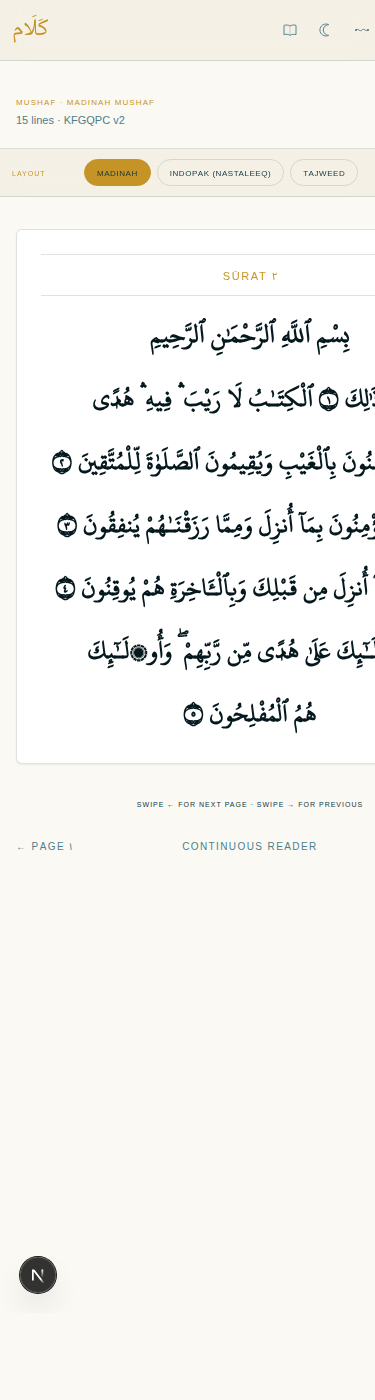
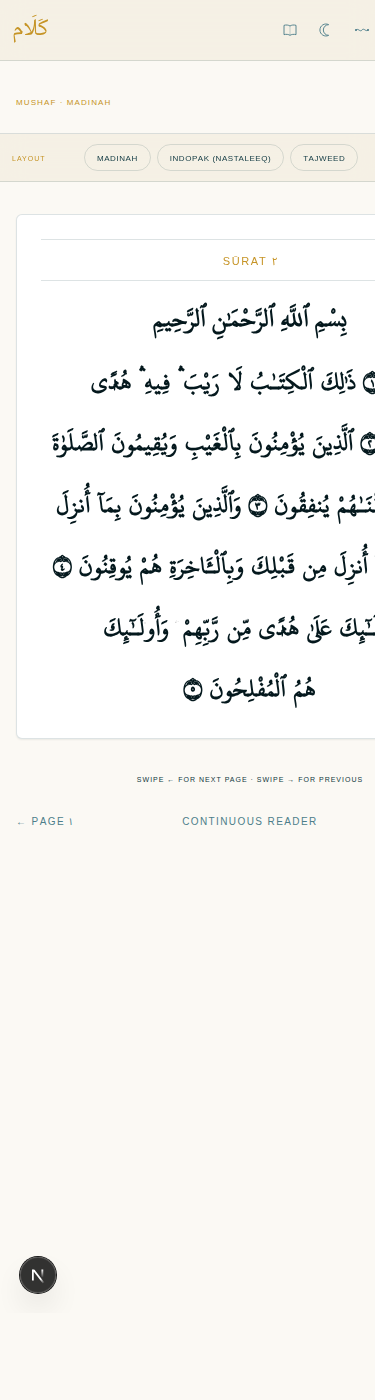
feat(web,backend): pretty mushaf URL slugs + word-tap restored + ayah-mushaf cleanup
URL slugs (user-facing):
- /mushaf/madinah/N        (was /mushaf/madani_15/N)
- /mushaf/indopak/N        (was /mushaf/kfgqpc_v1/N)
- /mushaf/tajweed/N        (was /mushaf/kfgqpc_v4/N)
- Old internal slugs still resolve (backward compat) via the
  URL_ALIAS_TO_INTERNAL map in qul-layouts.ts.
- /v1/layouts response now includes urlSlug per layout. Frontend chip
  links + JumpToPicker + page-nav use urlSlug.

Word-by-word selector restored on mushaf:
- Each word in MushafLines is now an inline <a class="mushaf-word">
  → /study/:s/:a#w<idx>. Plain inline (NOT inline-block / NOT bdi /
  NOT isolate) so it stays in the parent's RTL bidi context — no
  reordering — while remaining tappable. Subtle hover highlight.
- Tajweed coloring + silent-mark superscripts now layered INSIDE the
  word anchor instead of replacing it.

Silent-mark sizing fix:
- U+06DF / U+06D6–U+06D8 small-high marks were rendering as full-size
  rosette-like glyphs (UthmanicHafs draws them prominently). Shrank to
  0.32em with vertical-align 0.95em, switched font to Noto Naskh
  Arabic so the codepoint draws as a discreet superscript dot.

Single-ayah mushaf style:
- AyahMushafLines now slices each line's words to ONLY the target
  verse's words. A mushaf line that spans verse 2:2 + 2:3 used to
  render BOTH on the single-ayah view, mixing verses. Now only the
  requested verse's portion shows on each line.

IndoPak rosette fix:
- Verse-end span uses display:inline-block + unicode-bidi:isolate so
[…]

diff --git a/apps/web/src/components/MushafLines.tsx b/apps/web/src/components/MushafLines.tsx
@@ -432,6 +432,9 @@ function renderLineText(
       // rosette glyph renders even when the layout font (Nastaliq /
       // Naskh) has no rosette. Wrapped as a clickable anchor for jump-
       // to-verse on tap.
+      // Render the rosette in its own bidi-isolated inline-block so
+      // the Nastaliq parent font can't bleed into the UthmanicHafs
+      // override and the rosette stays a single unit in the line.
       out.push(
         <a
           key={`${w.wordId.toString()}-end`}
@@ -439,7 +442,11 @@ function renderLineText(
           title={`Ayah ${w.verseKey} — ends here`}
           aria-label={`End of ayah ${w.verseKey}`}
           className="ayah-end hover:text-leaf"
-          style={{ fontFamily: '"UthmanicHafs", "Amiri Quran", serif' }}
+          style={{
+            fontFamily: '"UthmanicHafs", "Amiri Quran", serif',
+            display: 'inline-block',
+            unicodeBidi: 'isolate',
+          }}
         >
           {ayahDigit(w.verseKey)}
         </a>,
@@ -448,6 +455,16 @@ function renderLineText(
       continue;
     }
 
+    // Wrap each word in a plain INLINE anchor (NOT inline-block, NOT
+    // bdi/isolate) so it stays in the parent's bidi context — no
+    // reordering — while remaining tappable for word-by-word study.
+    // Anchor goes to /study/:surah/:ayah/word-:idx.
+    const sn = w.verseKey.split(':')[0] ?? '1';
+    const an = w.verseKey.split(':')[1] ?? '1';
+    const wordChildren: ReactNode[] = [];
+
+    // Apply tajweed coloring within this word for v4 layout
+    let segs: { text: string; rule?: TajweedAnnotation['rule'] }[] = [{ text: w.text }];
     if (layoutSlug === 'kfgqpc_v4') {
       const verseAnn = tajweedByVerse.get(w.verseKey) ?? [];
       const wordStart = verseWordOffsets.get(w.verseKey)?.get(w.wordIndex) ?? 0;
@@ -462,26 +479,51 @@ function renderLineText(
         });
       }
       if (localAnn.length > 0) {
-        const segs = applyTajweed(w.text, localAnn);
-        for (let si = 0; si < segs.length; si += 1) {
-          const s = segs[si];
-          if (!s) continue;
-          if (s.rule) {
-            out.push(
-              <span key={`${w.wordId.toString()}-s${si.toString()}`} className={`tajweed-${s.rule}`}>{s.text}</span>,
-            );
-          } else {
-            out.push(s.text);
-          }
-        }
-        if (sep) out.push(' ');
-        continue;
+        segs = applyTajweed(w.text, localAnn) as typeof segs;
       }
     }
 
-    // Plain word — emitted as a raw string so it joins the bidi run
-    // with adjacent words (no per-word inline-block).
-    out.push(w.text);
+    // Within each segment, also split out small-high silent marks
+    // (U+06DF, U+06D6–U+06D8) so they render as discreet superscripts.
+    const SILENT_MARK_RE = /([ۖ-ۘ۟])/;
+    for (let si = 0; si < segs.length; si += 1) {
+      const s = segs[si];
+      if (!s) continue;
+      const parts = s.text.split(SILENT_MARK_RE);
+      for (let pi = 0; pi < parts.length; pi += 1) {
+        const p = parts[pi];
+        if (!p) continue;
+        if (SILENT_MARK_RE.test(p)) {
+          wordChildren.push(
+            <span
+              key={`${w.wordId.toString()}-s${si.toString()}m${pi.toString()}`}
+              className={`silent-mark${s.rule ? ` tajweed-${s.rule}` : ''}`}
+            >
+              {p}
+            </span>,
+          );
+        } else if (s.rule) {
+          wordChildren.push(
+            <span key={`${w.wordId.toString()}-s${si.toString()}p${pi.toString()}`} className={`tajweed-${s.rule}`}>
+              {p}
+            </span>,
+          );
+        } else {
+          wordChildren.push(p);
+        }
+      }
+    }
+
+    out.push(
+      <a
+        key={w.wordId.toString()}
+        href={`/study/${sn}/${an}#w${w.wordIndex.toString()}`}
+        title={`${w.verseKey} · word ${(w.wordIndex + 1).toString()}`}
+        className="mushaf-word"
+      >
+        {wordChildren}
+      </a>,
+    );
     if (sep) out.push(' ');
   }
   return <>{out}</>;

diff --git a/apps/web/src/styles/globals.css b/apps/web/src/styles/globals.css
@@ -449,6 +449,46 @@
     border-color: color-mix(in srgb, var(--color-leaf-700) 70%, transparent);
   }
 
+  /* Mushaf word — plain inline anchor that's tappable for the
+   * word-by-word study panel. Inline (not inline-block) so it stays
+   * in the parent's bidi context and doesn't reorder the line. */
+  .mushaf-word {
+    color: inherit;
+    text-decoration: none;
+    transition: color 160ms ease-out, background-color 160ms ease-out;
+    border-radius: 4px;
+    padding: 0 1px;
+  }
+  .mushaf-word:hover {
+    color: var(--color-leaf-700);
+    background-color: color-mix(in srgb, var(--color-leaf-300) 12%, transparent);
+  }
+  :root[data-theme="dark"] .mushaf-word:hover {
+    color: var(--color-leaf-300);
+  }
+
+  /* Small high "silent" marks — U+06DF Arabic Small High Rounded Zero
+   * (silent letter), U+06D6–U+06D8 small high marks. UthmanicHafs draws
+   * these as full-size mid-line glyphs that look like spurious rosettes.
+   * Quranly/Tarteel render them as discreet superscript dots. We restore
+   * that look via runtime char-replacement: words wrap matching chars in
+   * <span class="silent-mark"> and we shrink + neutralise color here.
+   * Use a Naskh font that draws the codepoint as a tiny circle, override
+   * UthmanicHafs which substitutes a full-size rosette. */
+  .silent-mark {
+    font-family: 'Noto Naskh Arabic', 'Amiri', serif;
+    font-size: 0.32em;
+    vertical-align: 0.95em;
+    color: var(--color-ink-muted, #6b6b6b);
+    font-weight: 400;
+    line-height: 0;
+    margin: 0 0.05em;
+  }
+  /* Inside the v4 tajweed layout the rule may also tag the silent
+   * mark — keep it neutral regardless of rule color. */
+  .mushaf-layout-tajweed .silent-mark,
+  .mushaf-layout-tajweed .tajweed-silent { color: #909090; }
+
   /* Tajweed palette — annotation-driven (cpfair/quran-tajweed MIT).
    * 18 rules from the source dataset, mapped to the Quran.com /
    * Tanzeel color convention. Each .tajweed-<rule> class paints a

diff --git a/apps/backend/src/routes/v1/qul-layouts.ts b/apps/backend/src/routes/v1/qul-layouts.ts
@@ -46,14 +46,31 @@ const KNOWN_LAYOUTS: ReadonlySet<MushafLayoutSlug> = new Set<MushafLayoutSlug>([
   'ligature_svg',
 ]);
 
+// Public URL aliases. Users see /mushaf/madinah/2 instead of
+// /mushaf/madani_15/2 — internal storage slugs (madani_15, kfgqpc_v1,
+// kfgqpc_v4) stay stable; the alias map translates pretty URLs.
+const URL_ALIAS_TO_INTERNAL: Record<string, MushafLayoutSlug> = {
+  madinah: 'madani_15',
+  indopak: 'kfgqpc_v1',
+  tajweed: 'kfgqpc_v4',
+};
+const INTERNAL_TO_URL_ALIAS: Record<string, string> = {
+  madani_15: 'madinah',
+  kfgqpc_v1: 'indopak',
+  kfgqpc_v4: 'tajweed',
+};
+
 function assertLayout(slug: string): MushafLayoutSlug {
-  if (!KNOWN_LAYOUTS.has(slug as MushafLayoutSlug)) {
+  // Accept the public alias OR the internal slug.
+  const aliased = URL_ALIAS_TO_INTERNAL[slug];
+  const resolved = aliased ?? (slug as MushafLayoutSlug);
+  if (!KNOWN_LAYOUTS.has(resolved)) {
     throw new QalaamError(
       'qalaam.mushaf.unknown-layout',
-      `Unknown layout ${slug}. Allowed: ${Array.from(KNOWN_LAYOUTS).join(', ')}.`,
+      `Unknown layout ${slug}. Allowed: ${Object.keys(URL_ALIAS_TO_INTERNAL).concat(Array.from(KNOWN_LAYOUTS)).join(', ')}.`,
     );
   }
-  return slug as MushafLayoutSlug;
+  return resolved;
 }
 
 // eslint-disable-next-line @typescript-eslint/require-await
@@ -114,6 +131,9 @@ export async function qulLayoutsRoutes(
       .filter((row) => row.pageCount > 0)
       .map((row) => ({
         slug: row.slug,
+        // Pretty URL slug — what users see in the address bar.
+        // Falls back to the internal slug if no alias is registered.
+        urlSlug: INTERNAL_TO_URL_ALIAS[row.slug] ?? row.slug,
         pageCount: row.pageCount,
         name: labels[row.slug]?.name ?? row.slug,
         subtitle: labels[row.slug]?.subtitle ?? '',

diff --git a/apps/web/src/components/AyahMushafLines.tsx b/apps/web/src/components/AyahMushafLines.tsx
@@ -93,11 +93,19 @@ export function AyahMushafLines({ verseKey, layoutSlug }: Props): ReactNode {
         if (!linesRes.ok) throw new Error(`page fetch failed (${linesRes.status.toString()})`);
         const linesBody = (await linesRes.json()) as { data: { lines: LayoutLine[] } };
 
-        // Step 3: cache + filter to lines containing this verse.
+        // Step 3: cache + filter to lines AND words matching this verse.
+        // A mushaf line can span multiple verses (e.g. last word of 2:2
+        // + first words of 2:3 share the same printed line). For
+        // single-ayah view we only want the words of the requested
+        // verse — slicing the words array preserves correct ordering
+        // (word_id is already mushaf-global asc from the backend).
         pageCache.set(cacheKey, { pageNumber, lines: linesBody.data.lines });
-        const filtered = linesBody.data.lines.filter((l) =>
-          l.words.some((w) => w.verseKey === verseKey),
-        );
+        const filtered: LayoutLine[] = linesBody.data.lines
+          .filter((l) => l.words.some((w) => w.verseKey === verseKey))
+          .map((l) => ({
+            ...l,
+            words: l.words.filter((w) => w.verseKey === verseKey),
+          }));
 
         if (!cancelled) {
           setState({ loading: false, error: null, lines: filtered, pageNumber });

diff --git a/apps/web/src/app/mushaf/[layout]/[page]/page.tsx b/apps/web/src/app/mushaf/[layout]/[page]/page.tsx
@@ -46,6 +46,8 @@ interface LayoutPage {
 
 interface LayoutInfo {
   readonly slug: string;
+  /** Pretty URL slug (madinah, indopak, tajweed). May fall back to slug. */
+  readonly urlSlug?: string;
   readonly name: string;
   readonly subtitle?: string;
   readonly pageCount?: number;
@@ -141,7 +143,7 @@ export default async function MushafPage({ params }: PageProps): Promise<ReactNo
             {layouts.map((l) => (
               <Link
                 key={l.slug}
-                href={`/mushaf/${l.slug}/${pageNumber.toString()}`}
+                href={`/mushaf/${l.urlSlug ?? l.slug}/${pageNumber.toString()}`}
                 className={`shrink-0 rounded-full px-3 py-1 text-[11px] sm:text-xs smallcaps tracking-wider transition-colors border ${
                   l.slug === layout
                     ? 'bg-leaf text-paper border-leaf'

diff --git a/apps/web/src/components/ReadSurfaceClient.tsx b/apps/web/src/components/ReadSurfaceClient.tsx
@@ -47,6 +47,7 @@ interface ReciterItem {
 
 interface LayoutItem {
   readonly slug: string;
+  readonly urlSlug?: string;
   readonly name: string;
   readonly subtitle?: string;
 }
@@ -347,7 +348,7 @@ export function ReadSurfaceClient({
                 return (
                   <a
                     key={l.slug}
-                    href={`/mushaf/${l.slug}/page-for/${encodeURIComponent(firstVk)}`}
+                    href={`/mushaf/${l.urlSlug ?? l.slug}/page-for/${encodeURIComponent(firstVk)}`}
                     title={l.subtitle ?? ''}
                     className="shrink-0 rounded-full px-3 py-1 text-[11px] sm:text-xs smallcaps tracking-wider transition-colors border border-hairline text-ink hover:bg-paper-200/60 hover:border-leaf/40 hover:text-leaf"
                   >

diff --git a/apps/web/src/app/read/[surah]/page.tsx b/apps/web/src/app/read/[surah]/page.tsx
@@ -49,6 +49,7 @@ interface ReciterItem {
 
 interface LayoutItem {
   readonly slug: string;
+  readonly urlSlug?: string;
   readonly name: string;
   readonly subtitle?: string;
 }